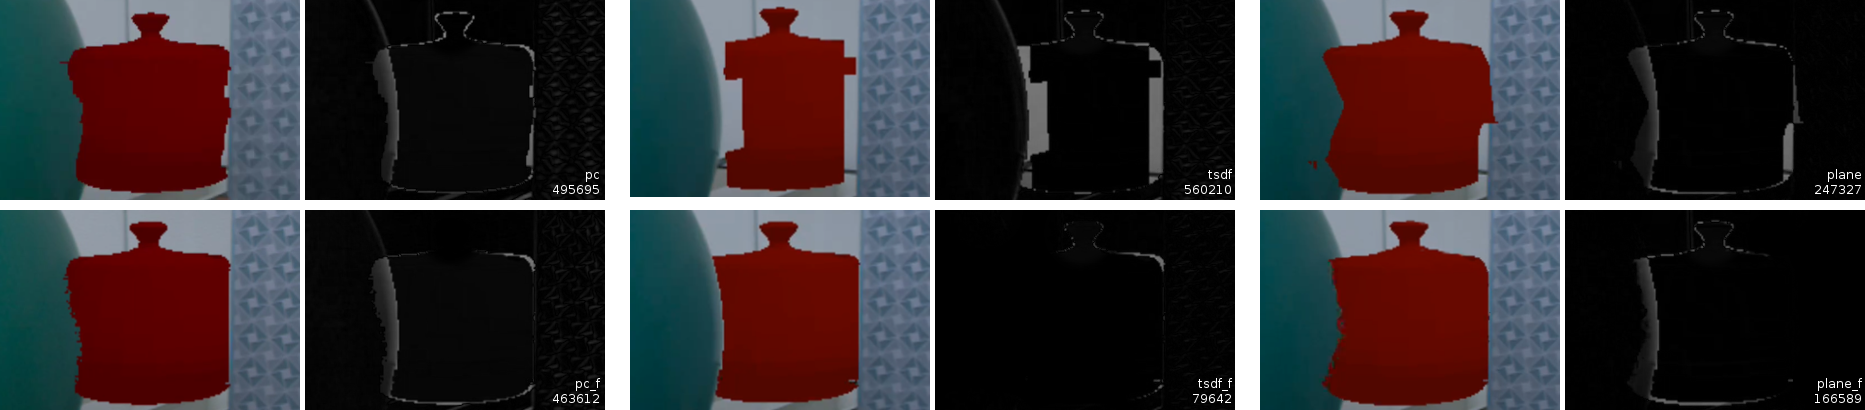
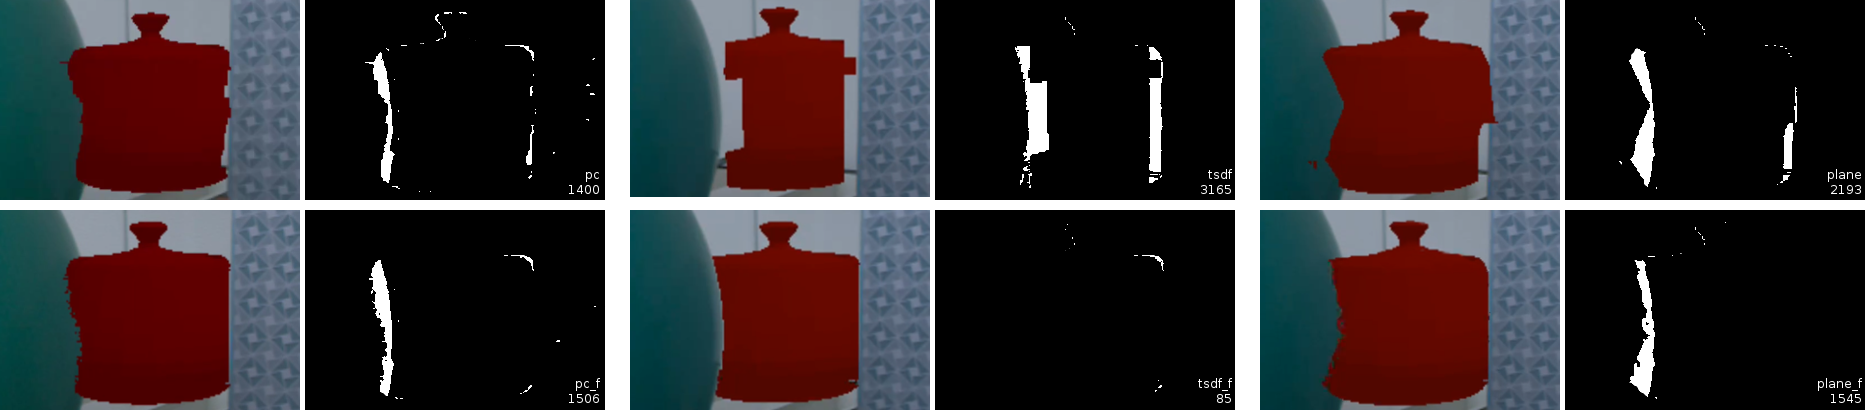
updating evaluation

diff --git a/content/tests.tex b/content/tests.tex
@@ -44,8 +44,8 @@ Der Vergleich der Ergebnisse, welcher mit dem bereits beschriebenen Bilddifferen
 
 \begin{figure}[h]
   \centering
-	\includegraphics[width=1.0\textwidth]{content/images/evaluation/reference.png} 
-  \caption{Manuell konstruierte Referenzbilder der idealen Überlagerung in Szene 1 (links) und 2 (rechts).}
+	\includegraphics[width=0.7\textwidth]{content/images/evaluation/reference.png} 
+  \caption{Manuell konstruierte Referenzbilder der idealen Überlagerung mit Filtermaske in Szene 1 (links) und 2 (rechts).}
   \label{fig:reference}
 \end{figure}
 
@@ -57,14 +57,15 @@ Der gezeigte Skript zum Verglich der Ergebnisbilder mit den Referenzbildern ergi
 \begin{tabular}{@{}rrrr@{}}
 \toprule
                       & \textbf{\begin{tabular}[c]{@{}r@{}}Pointcloud \\ Projektion\end{tabular}} & \textbf{\begin{tabular}[c]{@{}r@{}}TSDF \\ Rekonstruktion\end{tabular}} & \textbf{\begin{tabular}[c]{@{}r@{}}Ebenen \\ Rekonstruktion\end{tabular}} \\ \midrule
-\textbf{Szene 1}      & 495.695                                                                    & 560.210                                                                  & 247.327                                                                    \\
-\textbf{Szene 1 + GF} & 463.612                                                                    & 79.642                                                                & 166.589                                                                    \\
-\textbf{Szene 2}      & 190.473                                                                   & 462.780 & 295.008 \\
-\textbf{Szene 2 + GF} & 22.148                                                                 & 339.086 & 264.154 \\ \bottomrule
+\textbf{Szene 1}      & 1400 & 3165 & 2193   \\
+\textbf{Szene 1 + GF} & 1506 & 85 & 1545 \\
+\textbf{Szene 2}      & 2478 & 4007 & 2180 \\
+\textbf{Szene 2 + GF} & 67 & 1876 & 1529 \\
+\bottomrule
 \end{tabular}
 \caption{Distanzwert zwischen dem Referenzbild und den Ergebnisbildern in der jeweiligen Szene}
 \label{tab:results}
 \end{table}
 
-
+3165
 Neben diesen resultierenden Werten werden im Fazit Kapitel \ref{sec:conclusion} auch anhand einiger dynamischer Tests, mit mehr Bewegung, die implementierten und getesteten Verfahren eingeschätzt. Diese, für die Verfahren nicht reproduzierbaren und deshalb nicht im Detail dokumentierten, Tests beinhalteten eine ähnliche statische Szene, um die sich mit einem Seitenschritt bewegt wurde, um die Genauigkeit der Kantenüberdeckung bei Bewegung gegenüberstellen zu können.

diff --git a/content/appendix.tex b/content/appendix.tex
@@ -25,21 +25,31 @@
 \chapter{Differenz OpenCV Python Skript}
 
 \begin{lstlisting}[mathescape,caption=Python Implementierung der Bilddifferenz, label=lst:compare, language=Python]
+import numpy as np
 from cv2 import *
 from os import listdir
 from os.path import isfile, join
 
-reference_path = "reference.png"
-reference = imread(reference_path)
-reference = cvtColor(reference, COLOR_BGR2GRAY)
+reference = imread("reference.png")
+mask = imread("mask.png")
+mask = cvtColor(mask, COLOR_BGR2GRAY)
 all_images = [f for f in listdir("./") 
-    if isfile(join("./", f)) and f.endswith(".png")]
-    
+	if isfile(join("./", f)) 
+	and f.endswith(".png") 
+	and not f.startswith("mask") 
+	and not f.startswith("reference")]
+results = []
+
 for img_path in all_images:
     img = imread(img_path)
-    img = cvtColor(img, COLOR_BGR2GRAY)
     result = absdiff(reference, img)
-    imwrite("result_" + img_path, result)
-    difference = sumElems(result)
-    print str(int(result[2])) + "\t" + result[0] + "\t" + result[1]
+    result = inRange(result, (30,30,30), (255, 255, 255))
+    result = bitwise_and(result, mask)
+    imwrite('result_'+img_path, result)
+    difference = countNonZero(result)
+    results.append([img_path, difference])
+
+for result in results:
+    print str(int(result[1])) + "\t" + result[0]  
+
 \end{lstlisting}

diff --git a/content/conclusion.tex b/content/conclusion.tex
@@ -51,6 +51,7 @@ Angenommen es gäbe die Möglichkeit den Einsatz des Guided Filters für jedes V
 
 Technologie
 * Vorteile von Polygonen als Ausgangsbasis (Schatten, Interaktion)
+* Filter Umsetzung in im Vertex/Fragment Shader
 * 
 
 Project Tango
